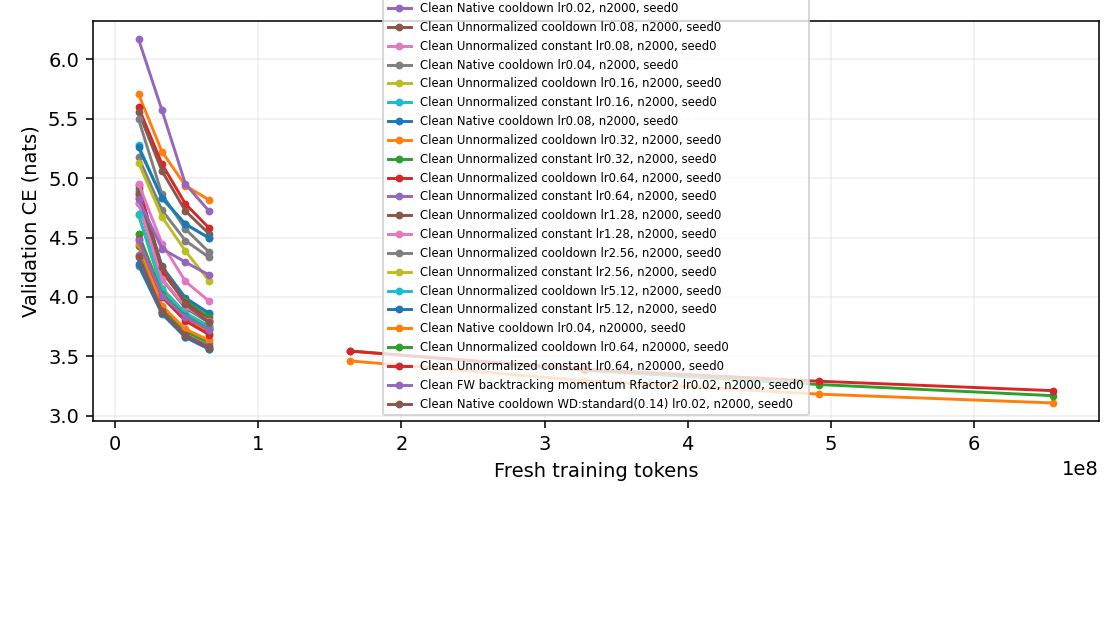
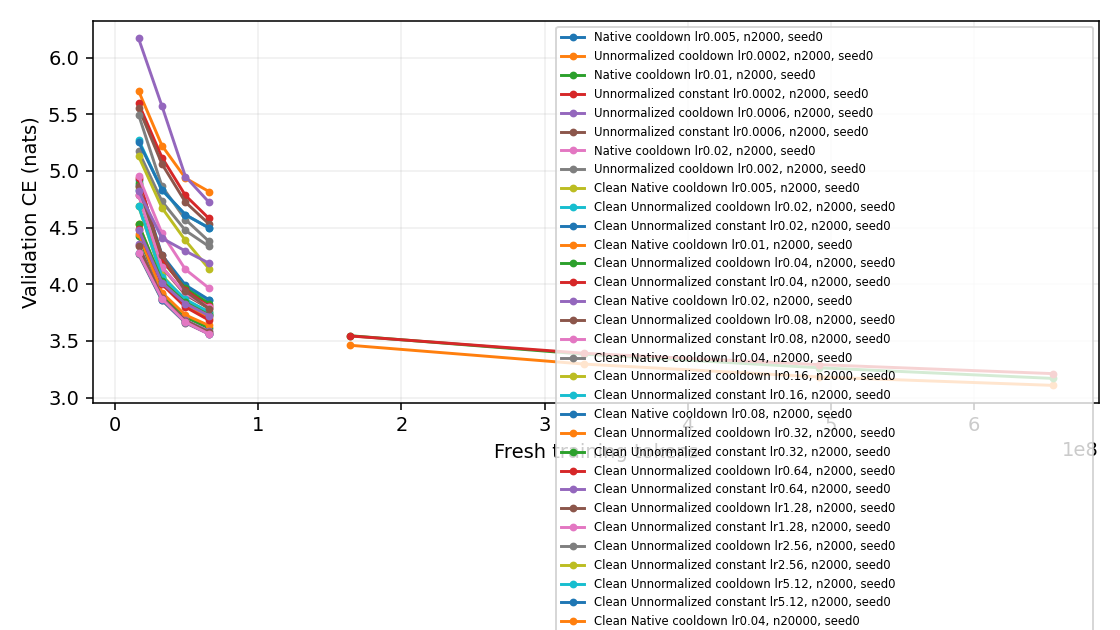
Update live Muon experiment results

diff --git a/research/unnormalized_muon/RESULTS.md b/research/unnormalized_muon/RESULTS.md
@@ -4,12 +4,12 @@ One B300 per job. CE is token cross-entropy (nats); lower is better. Rows with d
 
 | Run | Method | Updates | Seed | CLI matrix LR | Val CE | Val BPB | Heldout CE | Process sec |
 |---|---|---:|---:|---:|---:|---:|---:|---:|
-| um-check-fw-derivative-001 | Clean FW backtracking gradient Rfactor2 | 48 | 0 | 0.02 | 6.648578 | 2.014818 | — | 121.14 |
-| um-check-fw-gradient-001 | Clean FW backtracking gradient Rfactor2 | 64 | 0 | 0.02 | 6.488285 | 1.966192 | — | 110.84 |
-| um-check-fw-momentum-001 | Clean FW backtracking momentum Rfactor2 | 64 | 0 | 0.02 | 6.470441 | 1.960795 | — | 110.11 |
+| um-check-fw-derivative-001 | Clean FW backtracking gradient Rfactor2 smoothness eager | 48 | 0 | 0.02 | 6.648578 | 2.014818 | — | 121.14 |
+| um-check-fw-gradient-001 | Clean FW backtracking gradient Rfactor2 smoothness eager | 64 | 0 | 0.02 | 6.488285 | 1.966192 | — | 110.84 |
+| um-check-fw-momentum-001 | Clean FW backtracking momentum Rfactor2 smoothness eager | 64 | 0 | 0.02 | 6.470441 | 1.960795 | — | 110.11 |
 | um-check-wd-002 | Clean Unnormalized cooldown WD:standard(0.0175) | 64 | 0 | 0.64 | 6.607081 | 2.002237 | — | 85.90 |
 | um-clean-calibration-001 | Clean Native cooldown | 256 | 0 | 0.02 | 5.270988 | 1.597709 | — | 86.86 |
-| um-clean-fw-accumcheck-001 | Clean FW backtracking momentum Rfactor2 | 16 | 0 | 0.02 | 9.061382 | 2.745550 | — | 124.31 |
+| um-clean-fw-accumcheck-001 | Clean FW backtracking momentum Rfactor2 smoothness eager | 16 | 0 | 0.02 | 9.061382 | 2.745550 | — | 124.31 |
 | um-clean-grid-00-0-normalized-lr0p005 | Clean Native cooldown | 2000 | 0 | 0.005 | 3.756841 | 1.138807 | — | 157.45 |
 | um-clean-grid-00-1-cooldown-lr0p02 | Clean Unnormalized cooldown | 2000 | 0 | 0.02 | 3.859137 | 1.169816 | — | 164.02 |
 | um-clean-grid-00-2-constant-lr0p02 | Clean Unnormalized constant | 2000 | 0 | 0.02 | 3.863261 | 1.171071 | — | 157.17 |
@@ -36,9 +36,9 @@ One B300 per job. CE is token cross-entropy (nats); lower is better. Rows with d
 | um-clean-long-0-0-normalized-lr0p04 | Clean Native cooldown | 20000 | 0 | 0.04 | 3.107198 | 0.942041 | — | 743.22 |
 | um-clean-long-0-1-cooldown-lr0p64 | Clean Unnormalized cooldown | 20000 | 0 | 0.64 | 3.168528 | 0.960609 | — | 779.28 |
 | um-clean-long-0-2-constant-lr0p64 | Clean Unnormalized constant | 20000 | 0 | 0.64 | 3.210816 | 0.973451 | — | 737.52 |
-| um-clean-long-2-fw-pilot | Clean FW backtracking momentum Rfactor2 | 2000 | 0 | 0.02 | 4.185817 | 1.268782 | — | 409.98 |
-| um-fw-diagnostic-001 | FW backtracking momentum Rfactor2 | 64 | 0 | 0.02 | 6.469995 | 1.960658 | — | 95.07 |
-| um-fw-diagnostic-002 | FW backtracking momentum Rfactor2 | 64 | 0 | 0.02 | 6.900428 | 2.091122 | — | 117.14 |
+| um-clean-long-2-fw-pilot | Clean FW backtracking momentum Rfactor2 smoothness eager | 2000 | 0 | 0.02 | 4.185817 | 1.268782 | — | 409.98 |
+| um-fw-diagnostic-001 | FW backtracking momentum Rfactor2 smoothness eager | 64 | 0 | 0.02 | 6.469995 | 1.960658 | — | 95.07 |
+| um-fw-diagnostic-002 | FW backtracking momentum Rfactor2 smoothness eager | 64 | 0 | 0.02 | 6.900428 | 2.091122 | — | 117.14 |
 | um-screen-00-0-native-lr0p005 | Native cooldown | 2000 | 0 | 0.005 | 3.734536 | 1.132046 | — | 145.49 |
 | um-screen-00-1-scaled-lr0p0002 | Unnormalized cooldown | 2000 | 0 | 0.0002 | 4.818060 | 1.460343 | — | 153.42 |
 | um-screen-00-2-constant-lr0p0002 | Unnormalized constant | 2000 | 0 | 0.0002 | 4.581043 | 1.388601 | — | 151.98 |
@@ -50,10 +50,11 @@ One B300 per job. CE is token cross-entropy (nats); lower is better. Rows with d
 | um-smoke-001/native | Native cooldown | 64 | 42 | 0.02 | 6.475706 | 1.962373 | — | 101.57 |
 | um-smoke-001/scaled | Unnormalized cooldown | 64 | 42 | 0.002 | 6.492003 | 1.967335 | — | 74.24 |
 | um-wd-grid-0-0-norm-lr0p02 | Clean Native cooldown WD:standard(0.14) | 2000 | 0 | 0.02 | 3.576236 | 1.084133 | — | 164.96 |
+| um-wd-grid-0-0-norm-lr0p04 | Clean Native cooldown WD:standard(0.07) | 2000 | 0 | 0.04 | 3.561056 | 1.079537 | — | 164.28 |
 
 Review of um-fw-diagnostic-001: Compiled training f0 compared against functional candidate losses; vanishing-step mismatch2-4e-5 exceeded tolerance, leading to curvature1e186 and45 skipped steps. Replaced by paired functional reference and candidates; retain all645 measured forwards and GPUcost.
 
-Conservative charged/reserved total: 5.1047 / 30 B300 GPU-hours. Includes prior smoke/failed attempts and current maximum-duration reservations. Six-slot central queue; one B300 per run.
+Conservative charged/reserved total: 5.4202 / 30 B300 GPU-hours. Includes prior smoke/failed attempts and current maximum-duration reservations. Six-slot central queue; one B300 per run.
 
 CLEAN geometry disables row equilibration and NorMuon. Original clean runs use zero matrix decay; new WD runs explicitly label standard or cautious decay and their CLI coefficient. Same five Polar Express steps and Frobenius correction; scale by the per-matrix nonnegative FP32 inner product of the native Nesterov input with the NS/Frobenius direction. Shape scaling occurs once outside the scalar. Legacy rows retain production extras and must be compared separately. Constant schedule changes only matrix LR; auxiliary schedules and momentum remain matched.
 

diff --git a/research/unnormalized_muon/DETAILED_EVAL.md b/research/unnormalized_muon/DETAILED_EVAL.md
@@ -19,12 +19,13 @@ CLI lambda = 0.28*(0.04/CLI_eta)*strength matches nominal eta*lambda exposure ac
 | Method | Decay | Strength | CLI LR | CLI WD | Updates | Val CE | Nominal Muon exposure range |
 |---|---|---:|---:|---:|---:|---:|---|
 | normalized | standard | 0.25 | 0.02 | 0.14 | 2000 | 3.576236 | 0.40773–0.81545 |
+| normalized | standard | 0.25 | 0.04 | 0.07 | 2000 | 3.561056 | 0.40773–0.81545 |
 
 ## FW gap-based step and line search
 
 Fixed radii R_i=max(1,radius_factor*initial spectral norm(W_i)). A certified spectral-safe approximate polar direction Q_i defines D_i=-R_i Q_i-W_i. One shared gamma=clip(b/(L*v),0,1), b=-sum<G_i,D_i>, v=sum||D_i||F^2. Current-gradient and momentum oracles are separately labelled. With an approximate or momentum oracle, b is a directional gap, not an exact FW optimality certificate. Nonpositive b skips all candidate forwards. No additional matrix decay is applied.
 
-Backtracking compares a same-path functional reference at gamma=0 with candidates on the entire current effective batch, using the same token weighting and preserved RNG. Auxiliary weights are frozen during checks and updated afterward. Same-batch decrease does not guarantee heldout improvement.
+Strict smoothness backtracking compares a same-path functional reference at gamma=0 with candidates on the entire current effective batch, using the same token weighting and preserved RNG. Auxiliary weights are frozen during checks and updated afterward. The separately labelled Armijo variant accepts f(candidate)<=f0-c*gamma*b with c=.01 and forbids measured increases; it does NOT certify the original quadratic smoothness bound. Same-batch decrease does not guarantee heldout improvement.
 
 | Run | Updates | Val CE | Accepted | Negative b | Extra batch forwards | FW sec | Max spectral ratio |
 |---|---:|---:|---:|---:|---:|---:|---:|
@@ -36,7 +37,7 @@ Backtracking compares a same-path functional reference at gamma=0 with candidate
 
 ### um-check-fw-derivative-001
 
-Oracle: gradient; radius factor: 2. Search state/RNG audit: True. Each extra forward evaluates the entire effective batch; actual microbatch-forward count: 358. Extra diagnostic gradient queries: 3, diagnostic seconds: 2.061.
+Oracle: gradient; acceptance: smoothness; compiled candidates: False; radius factor: 2. Search state/RNG audit: True. Each extra forward evaluates the entire effective batch; actual microbatch-forward count: 358. Extra diagnostic gradient queries: 3, diagnostic seconds: 2.061.
 
 | Quantity | Min | P25 | Median | P75 | Max |
 |---|---:|---:|---:|---:|---:|
@@ -53,7 +54,7 @@ Accepted steps with measured minibatch increase: 6; acceptance has relative BF16
 
 ### um-check-fw-gradient-001
 
-Oracle: gradient; radius factor: 2. Search state/RNG audit: True. Each extra forward evaluates the entire effective batch; actual microbatch-forward count: 394. Extra diagnostic gradient queries: 0, diagnostic seconds: 0.000.
+Oracle: gradient; acceptance: smoothness; compiled candidates: False; radius factor: 2. Search state/RNG audit: True. Each extra forward evaluates the entire effective batch; actual microbatch-forward count: 394. Extra diagnostic gradient queries: 0, diagnostic seconds: 0.000.
 
 | Quantity | Min | P25 | Median | P75 | Max |
 |---|---:|---:|---:|---:|---:|
@@ -70,7 +71,7 @@ Accepted steps with measured minibatch increase: 11; acceptance has relative BF1
 
 ### um-check-fw-momentum-001
 
-Oracle: momentum; radius factor: 2. Search state/RNG audit: True. Each extra forward evaluates the entire effective batch; actual microbatch-forward count: 366. Extra diagnostic gradient queries: 0, diagnostic seconds: 0.000.
+Oracle: momentum; acceptance: smoothness; compiled candidates: False; radius factor: 2. Search state/RNG audit: True. Each extra forward evaluates the entire effective batch; actual microbatch-forward count: 366. Extra diagnostic gradient queries: 0, diagnostic seconds: 0.000.
 
 | Quantity | Min | P25 | Median | P75 | Max |
 |---|---:|---:|---:|---:|---:|
@@ -87,7 +88,7 @@ Accepted steps with measured minibatch increase: 14; acceptance has relative BF1
 
 ### um-clean-long-2-fw-pilot
 
-Oracle: momentum; radius factor: 2. Search state/RNG audit: True. Each extra forward evaluates the entire effective batch; actual microbatch-forward count: 5995. Extra diagnostic gradient queries: 0, diagnostic seconds: 0.000.
+Oracle: momentum; acceptance: smoothness; compiled candidates: False; radius factor: 2. Search state/RNG audit: True. Each extra forward evaluates the entire effective batch; actual microbatch-forward count: 5995. Extra diagnostic gradient queries: 0, diagnostic seconds: 0.000.
 
 | Quantity | Min | P25 | Median | P75 | Max |
 |---|---:|---:|---:|---:|---:|
